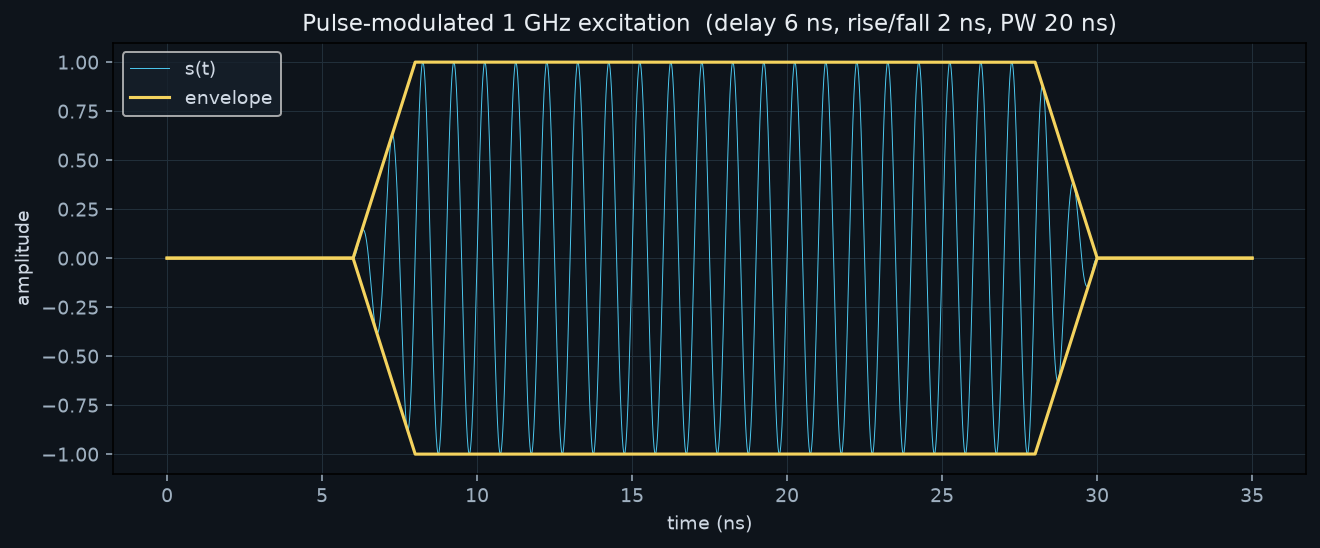
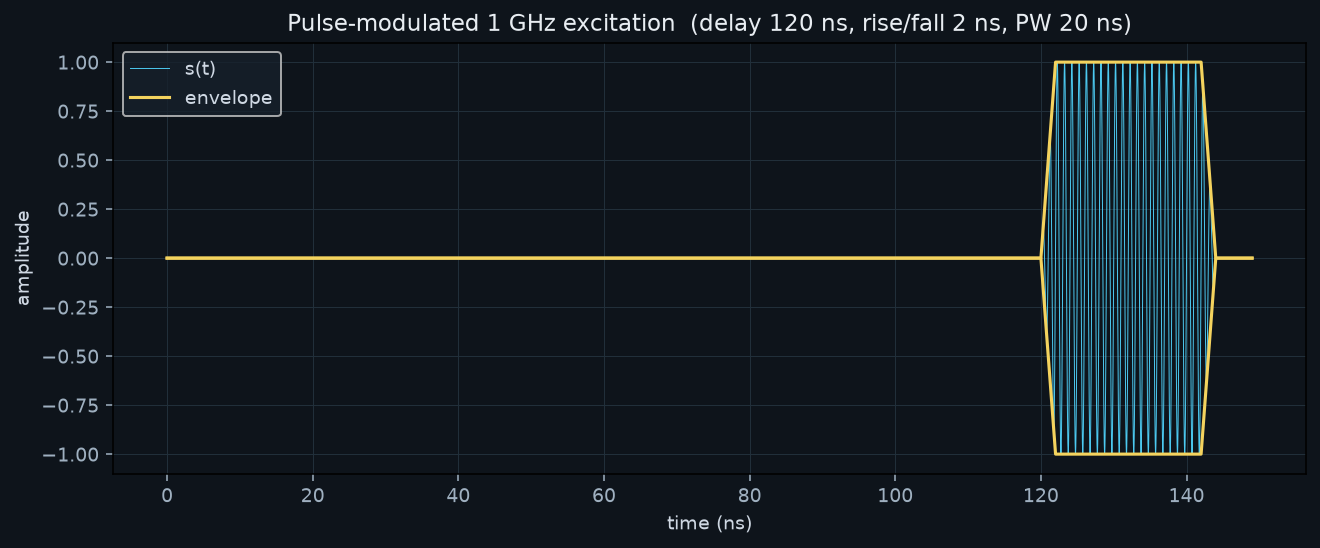
ParaView pipeline script

diff --git a/paraview_view.py b/paraview_view.py
@@ -1,0 +1,138 @@
+#!/usr/bin/env pvpython
+r"""
+paraview_view.py
+================
+Load the openEMS E-field time-series produced by ``3D-waveform-openems.py`` and
+set up an animated 3-D view of the pulse-modulated 1 GHz bowtie radiation.
+
+Two ways to use it
+------------------
+1. Headless / batch (renders a movie + frames, no GUI needed):
+       "C:\Program Files\ParaView 5.x\bin\pvpython.exe" paraview_view.py
+   (or pass the run directory:  pvpython paraview_view.py C:\path\to\run )
+
+2. Inside the ParaView GUI:
+       Tools > Python Shell, then:
+           exec(open(r"C:\...\paraview_view.py").read())
+   This builds the pipeline in the active view so you can interact/scrub.
+
+What it builds
+--------------
+* The Ez_xz (y=0, E-plane) field series, colored by the SIGNED z-component of E
+  with a symmetric diverging colormap -> you literally see wave crests/troughs of
+  the 1 GHz carrier propagate outward and the 20 ns pulse pass through.
+* A second layer for the bowtie geometry outline (from geometry.xml if present).
+* A time annotation and color bar.
+* Camera looking down the +y axis onto the x-z plane.
+
+Switch ``COLOR_BY`` below to ('E-Field','Magnitude') to see the pulse *envelope/
+intensity* instead of the signed wavefronts.
+"""
+
+import os
+import sys
+import glob
+
+# --------------------------------------------------------------------------
+# Resolve the run directory (matches 3D-waveform-openems.py defaults)
+# --------------------------------------------------------------------------
+DEFAULT_OUT = os.path.join(os.path.expanduser("~"), "openems_runs", "bowtie_pulse")
+RUN_DIR = sys.argv[1] if len(sys.argv) > 1 else os.environ.get("OPENEMS_OUT", DEFAULT_OUT)
+
+PLANE   = "Ez_xz"                       # "Ez_xz" (E-plane) or "Ez_xy" (H-plane)
+COLOR_BY = ("E-Field", "Z")             # signed wavefronts;  use "Magnitude" for envelope
+MOVIE    = os.path.join(RUN_DIR, "bowtie_pulse.avi")
+FRAMEDIR = os.path.join(RUN_DIR, "frames")
+
+frames = sorted(glob.glob(os.path.join(RUN_DIR, f"{PLANE}_*.vtr")))
+if not frames:
+    raise SystemExit(f"No {PLANE}_*.vtr files in {RUN_DIR!r}. "
+                     f"Run 3D-waveform-openems.py first (or pass the run dir).")
+
+from paraview.simple import *           # noqa: E402,F403
+paraview_version = GetParaViewVersion() if "GetParaViewVersion" in dir() else "?"
+print(f"ParaView {paraview_version} | {len(frames)} frames | {RUN_DIR}")
+
+# --------------------------------------------------------------------------
+# Reader: a numbered .vtr list is read as one time-series source
+# --------------------------------------------------------------------------
+field = XMLRectilinearGridReader(registrationName=PLANE, FileName=frames)
+field.PointArrayStatus = ["E-Field"]
+
+view = GetActiveViewOrCreate("RenderView")
+view.ViewSize = [1280, 900]
+view.Background = [0.055, 0.078, 0.106]            # dark slate to match the project
+view.OrientationAxesVisibility = 1
+
+disp = Show(field, view)
+disp.Representation = "Surface"
+ColorBy(disp, ("POINTS",) + COLOR_BY)
+disp.RescaleTransferFunctionToDataRange(True, False)
+
+# symmetric diverging colormap for signed field; rescale to a robust symmetric range
+lut = GetColorTransferFunction("E-Field")
+if COLOR_BY[1] == "Magnitude":
+    ApplyPreset("Inferno (matplotlib)", True)
+else:
+    ApplyPreset("Cool to Warm (Extended)", True)
+    # symmetric range so 0 = white; pick a value well below the source spike
+    di = field.GetDataInformation()
+    arr = di.GetPointDataInformation().GetArrayInformation("E-Field")
+    if arr is not None:
+        comp = {"X": 0, "Y": 1, "Z": 2}.get(COLOR_BY[1], 0)
+        rng = arr.GetComponentRange(comp)
+        a = 0.25 * max(abs(rng[0]), abs(rng[1]), 1e-9)   # clip the feed spike
+        lut.RescaleTransferFunction(-a, a)
+
+# color bar
+bar = GetScalarBar(lut, view)
+bar.Title = f"E_{COLOR_BY[1]}  (V/m)"
+bar.ComponentTitle = ""
+disp.SetScalarBarVisibility(view, True)
+
+# --------------------------------------------------------------------------
+# Optional: overlay the bowtie geometry outline
+# --------------------------------------------------------------------------
+geo = os.path.join(RUN_DIR, "geometry.xml")
+# (openEMS geometry.xml is a CSX file, not directly a ParaView reader; the metal
+#  shows up as the zero-field notch in the dump. Left as a hook for a future
+#  exported STL if desired.)
+
+# --------------------------------------------------------------------------
+# Camera: look down +y onto the x-z plane
+# --------------------------------------------------------------------------
+view.ResetCamera()
+cam = GetActiveCamera()
+cam.SetPosition(0, -1, 0)
+cam.SetFocalPoint(0, 0, 0)
+cam.SetViewUp(0, 0, 1)
+view.ResetCamera()
+
+# time annotation
+try:
+    ann = AnnotateTimeFilter(field)
+    ann.Format = "t-step %.0f"
+    ad = Show(ann, view); ad.Color = [0.9, 0.9, 0.95]
+except Exception:
+    pass
+
+scene = GetAnimationScene()
+scene.UpdateAnimationUsingDataTimeSteps()
+Render()
+
+# --------------------------------------------------------------------------
+# Batch export (only when run via pvpython, not in the GUI shell)
+# --------------------------------------------------------------------------
+if __name__ == "__main__" and sys.argv[0].endswith(".py"):
+    try:
+        os.makedirs(FRAMEDIR, exist_ok=True)
+        SaveAnimation(os.path.join(FRAMEDIR, "frame.png"), view,
+                      ImageResolution=[1280, 900], FrameRate=25)
+        print(f"[ok] wrote PNG frames to {FRAMEDIR}")
+        try:
+            SaveAnimation(MOVIE, view, ImageResolution=[1280, 900], FrameRate=25)
+            print(f"[ok] wrote movie {MOVIE}")
+        except Exception as e:
+            print(f"[movie skipped: {e}]")
+    except Exception as e:
+        print(f"[batch export skipped: {e}] -- pipeline is set up for interactive use.")